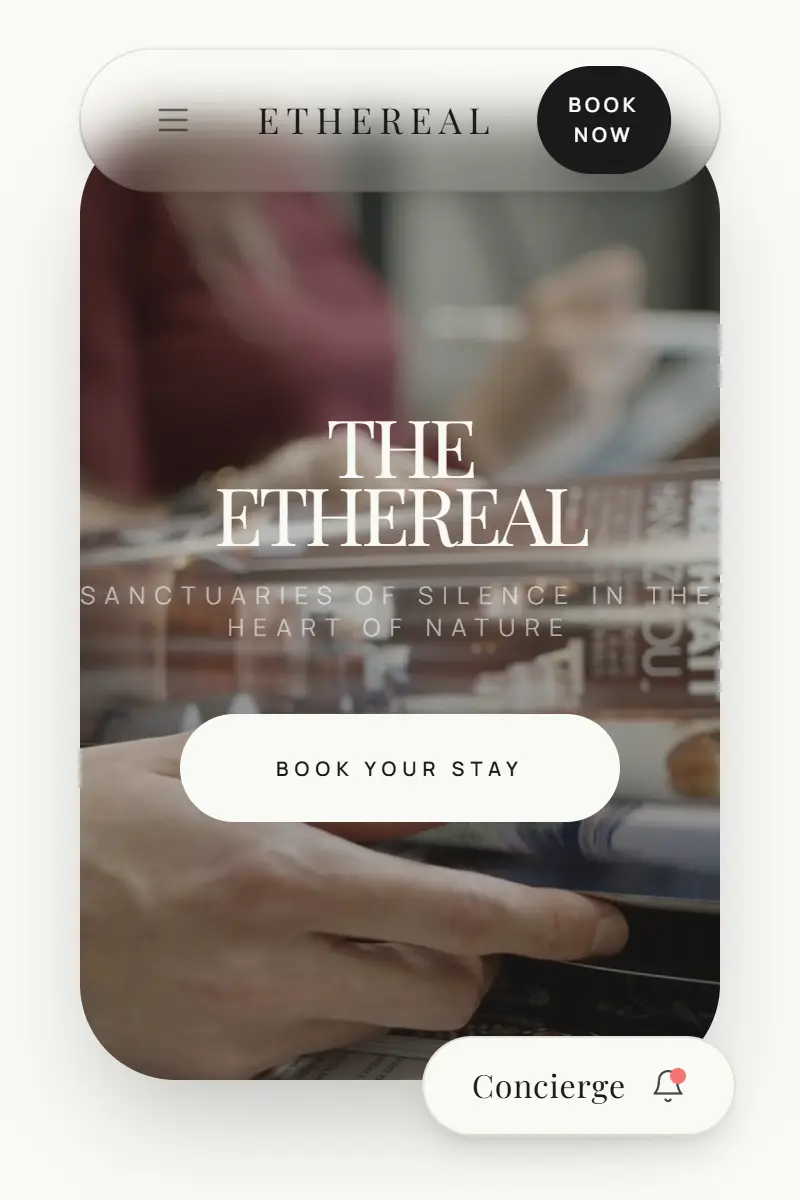
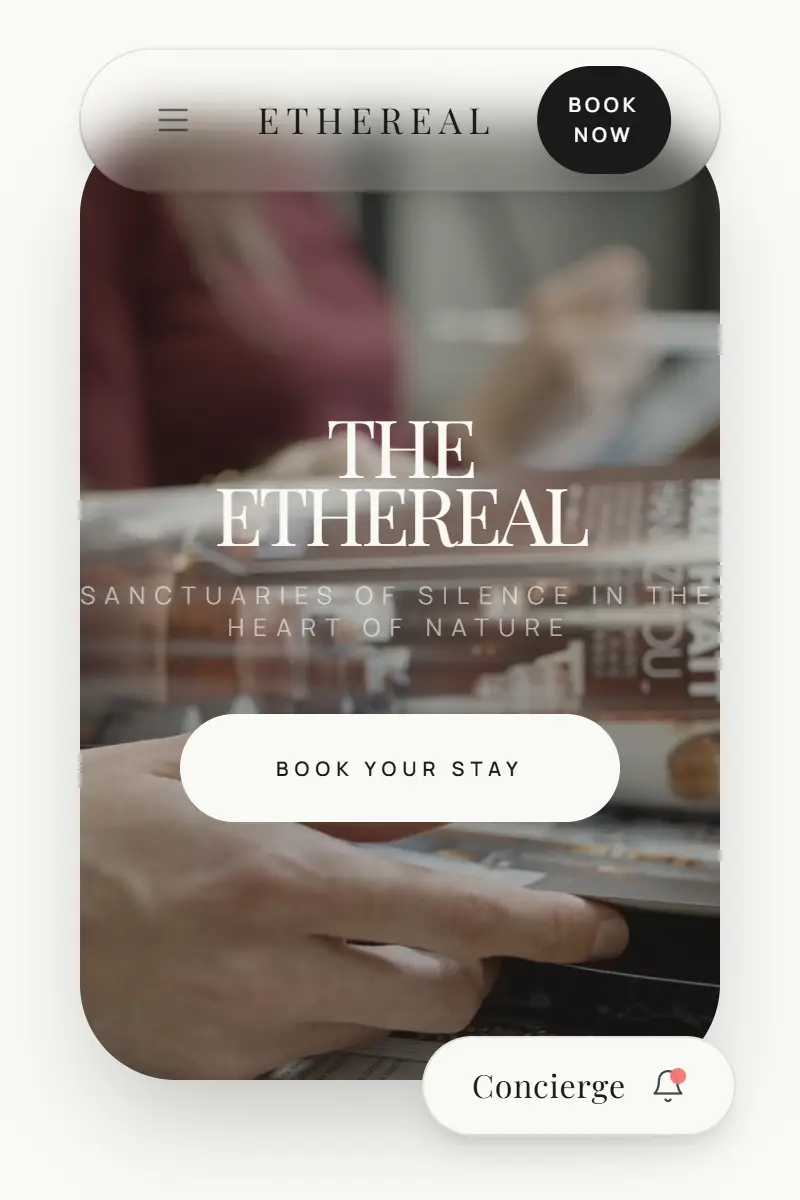
wip(demos2): fase 3 — las 8 demos, tambien en el sitio vivo
Niche Perfumes y AXON Studio (nombre y rubro leidos de cada pagina) en el
catalogo de v3 y en WebTemplatesImmersive con el mismo formato; portadas
reales de las ocho, vertical para el libro y horizontal para la ventana;
el estante se pisa mas para entrar en su columna sin achicar portadas.

Claude-Session: https://claude.ai/code/session_01WJnQfyiA9gf8temnKngsYh

diff --git a/logic-core-v3/src/app/v3/_secciones/trabajos/demos/catalogo.ts b/logic-core-v3/src/app/v3/_secciones/trabajos/demos/catalogo.ts
@@ -9,10 +9,10 @@
  * fuente del sitio vivo y afirma que los nombres y las URLs son los mismos, en el
  * mismo orden: la copia no puede envejecer sola.
  *
- * ⚠ **SON SEIS, NO OCHO.** El pedido dice «hoy son 8»; en el repo —`main`,
- * `redesign/home` y esta rama— hay seis. Las dos que faltan quedan PEDIDAS: entran
- * acá (y en el sitio vivo) con su URL y su portada, y la biblioteca las acomoda
- * sola, porque todo se deriva de la lista.
+ * **SON OCHO.** Eran seis en todas las ramas; las dos que faltaban llegaron en el
+ * sprint DEMOS 2, con permiso explícito de agregarlas también al sitio vivo. Su
+ * nombre y su rubro son los que dice cada página: el template de la URL «aura» se
+ * presenta como AXON Studio, y Niche como Niche Perfumes.
  *
  * El rubro es la primera mitad del `tagline` del sitio vivo, en castellano. La
  * portada es una captura real del template (`scripts-b4/demos-portadas.ts`),
@@ -24,20 +24,27 @@ export interface Demo {
   readonly nombre: string
   readonly rubro: string
   readonly url: string
-  /** Captura real del template, 400 × 600 CSS a doble densidad. */
+  /** Captura real del template, 400 × 600 CSS a doble densidad: la cara del libro. */
   readonly portada: string
+  /** Captura real al tamaño de la demo en la ventana (1.152 × 654): la textura del Genie. */
+  readonly ventana: string
 }
 
 /** Lo que mide cada portada, en píxeles de archivo. */
 export const MEDIDA_DE_LA_PORTADA = { ancho: 800, alto: 1200 } as const
 
+/** Lo que mide la captura de la ventana: el área de la demo a 1440 × 900, en CSS. */
+export const MEDIDA_DE_LA_VENTANA = { ancho: 1152, alto: 654 } as const
+
 export const CATALOGO_DE_DEMOS: readonly Demo[] = [
-  { slug: 'zero', nombre: 'Zero Protocol', rubro: 'Tecnología', url: 'https://template-zero.netlify.app/', portada: '/demos/zero.webp' },
-  { slug: 'ethereal', nombre: 'The Ethereal Resort', rubro: 'Hotelería', url: 'https://template-ethernal.netlify.app/', portada: '/demos/ethereal.webp' },
-  { slug: 'noir', nombre: 'Noir Dining in the Void', rubro: 'Gastronomía', url: 'https://template-noir.netlify.app/', portada: '/demos/noir.webp' },
-  { slug: 'skyline', nombre: 'Skyline Estates', rubro: 'Inmobiliaria', url: 'https://template-skyline.netlify.app/', portada: '/demos/skyline.webp' },
-  { slug: 'bold', nombre: 'NEXO Bold', rubro: 'Agencia creativa', url: 'https://template-bold.netlify.app/', portada: '/demos/bold.webp' },
-  { slug: 'nebula', nombre: 'YAKU Nebula', rubro: 'Software', url: 'https://template-nebula.netlify.app/', portada: '/demos/nebula.webp' },
+  { slug: 'zero', nombre: 'Zero Protocol', rubro: 'Tecnología', url: 'https://template-zero.netlify.app/', portada: '/demos/zero.webp', ventana: '/demos/zero-ventana.webp' },
+  { slug: 'ethereal', nombre: 'The Ethereal Resort', rubro: 'Hotelería', url: 'https://template-ethernal.netlify.app/', portada: '/demos/ethereal.webp', ventana: '/demos/ethereal-ventana.webp' },
+  { slug: 'noir', nombre: 'Noir Dining in the Void', rubro: 'Gastronomía', url: 'https://template-noir.netlify.app/', portada: '/demos/noir.webp', ventana: '/demos/noir-ventana.webp' },
+  { slug: 'skyline', nombre: 'Skyline Estates', rubro: 'Inmobiliaria', url: 'https://template-skyline.netlify.app/', portada: '/demos/skyline.webp', ventana: '/demos/skyline-ventana.webp' },
+  { slug: 'bold', nombre: 'NEXO Bold', rubro: 'Agencia creativa', url: 'https://template-bold.netlify.app/', portada: '/demos/bold.webp', ventana: '/demos/bold-ventana.webp' },
+  { slug: 'nebula', nombre: 'YAKU Nebula', rubro: 'Software', url: 'https://template-nebula.netlify.app/', portada: '/demos/nebula.webp', ventana: '/demos/nebula-ventana.webp' },
+  { slug: 'niche', nombre: 'Niche Perfumes', rubro: 'Perfumería', url: 'https://nicheperfumeria.netlify.app/', portada: '/demos/niche.webp', ventana: '/demos/niche-ventana.webp' },
+  { slug: 'aura', nombre: 'AXON Studio', rubro: 'Agencia de diseño web', url: 'https://template-aura-develop.netlify.app/', portada: '/demos/aura.webp', ventana: '/demos/aura-ventana.webp' },
 ]
 
 /**

diff --git a/logic-core-v3/scripts-b4/demos-portadas.ts b/logic-core-v3/scripts-b4/demos-portadas.ts
@@ -19,33 +19,48 @@ import { cerrarChrome, lanzarChrome } from './cdp'
 import { abrirPagina, cerrarPagina, irA } from './navegador'
 
 const DESTINO = 'public/demos'
-/** La cara de un libro: vertical, 2:3, a doble densidad. */
-const VISTA = { ancho: 400, alto: 600, densidad: 2 } as const
+/**
+ * Dos fotos por demo: la cara del libro (vertical, 2:3, a doble densidad) y la
+ * VENTANA —el área de la demo en la ventana abierta a 1440 × 900—, que es la
+ * textura del Genie y la imagen desde la que se funde el iframe vivo.
+ */
+const VISTAS = [
+  { sufijo: '', ancho: 400, alto: 600, densidad: 2 },
+  { sufijo: '-ventana', ancho: 1152, alto: 654, densidad: 1 },
+] as const
 /** Los templates tienen intros animados: se espera a que asienten. */
 const ESPERA_MS = 5000
+/**
+ * Uso: sin argumentos, las ocho. Con slugs (`... demos-portadas.ts aura`), sólo
+ * ésas y con el doble de espera: AXON tiene un intro de más de 5 s y la primera
+ * foto lo agarró a mitad de la transición.
+ */
+const SOLO = process.argv.slice(2)
 
 async function principal(): Promise<void> {
   mkdirSync(DESTINO, { recursive: true })
-  const chrome = await lanzarChrome({ perfil: 'C:/Users/Valentino/.cache/b4-medicion/demos-portadas', ancho: VISTA.ancho, alto: VISTA.alto + 120 })
+  const chrome = await lanzarChrome({ perfil: 'C:/Users/Valentino/.cache/b4-medicion/demos-portadas', ancho: 1152, alto: 654 + 120 })
   try {
-    for (const demo of CATALOGO_DE_DEMOS) {
-      const p = await abrirPagina(chrome)
-      await p.conexion.enviar(
-        'Emulation.setDeviceMetricsOverride',
-        { width: VISTA.ancho, height: VISTA.alto, deviceScaleFactor: VISTA.densidad, mobile: false },
-        p.sessionId,
-      )
-      await irA(p, demo.url, { marcaDeIntro: false, msMaximo: 30_000 })
-      await new Promise((r) => setTimeout(r, ESPERA_MS))
-      const foto = (await p.conexion.enviar(
-        'Page.captureScreenshot',
-        { format: 'webp', quality: 72, clip: { x: 0, y: 0, width: VISTA.ancho, height: VISTA.alto, scale: 1 } },
-        p.sessionId,
-      )) as { data: string }
-      const archivo = `${DESTINO}/${demo.slug}.webp`
-      writeFileSync(archivo, Buffer.from(foto.data, 'base64'))
-      console.log(`  ${demo.slug.padEnd(10)} ${archivo}`)
-      await cerrarPagina(p)
+    for (const demo of CATALOGO_DE_DEMOS.filter((d) => SOLO.length === 0 || SOLO.includes(d.slug))) {
+      for (const vista of VISTAS) {
+        const p = await abrirPagina(chrome)
+        await p.conexion.enviar(
+          'Emulation.setDeviceMetricsOverride',
+          { width: vista.ancho, height: vista.alto, deviceScaleFactor: vista.densidad, mobile: false },
+          p.sessionId,
+        )
+        await irA(p, demo.url, { marcaDeIntro: false, msMaximo: 30_000 })
+        await new Promise((r) => setTimeout(r, SOLO.length === 0 ? ESPERA_MS : ESPERA_MS * 3))
+        const foto = (await p.conexion.enviar(
+          'Page.captureScreenshot',
+          { format: 'webp', quality: 72, clip: { x: 0, y: 0, width: vista.ancho, height: vista.alto, scale: 1 } },
+          p.sessionId,
+        )) as { data: string }
+        const archivo = `${DESTINO}/${demo.slug}${vista.sufijo}.webp`
+        writeFileSync(archivo, Buffer.from(foto.data, 'base64'))
+        console.log(`  ${demo.slug.padEnd(10)} ${archivo}`)
+        await cerrarPagina(p)
+      }
     }
   } finally {
     await cerrarChrome(chrome)

diff --git a/logic-core-v3/src/app/v3/_estilos/demos.css b/logic-core-v3/src/app/v3/_estilos/demos.css
@@ -33,8 +33,7 @@
   padding-block-start: calc(var(--libro-alza) + var(--spacing-12));
   transition:
     transform var(--duracion-lenta) var(--demos-resorte),
-    opacity var(--duracion-lenta) var(--demos-resorte),
-    filter var(--duracion-lenta) var(--demos-resorte);
+    opacity var(--duracion-lenta) var(--demos-resorte);
 }
 
 /* La biblioteca RETROCEDE cuando una demo está abierta: se achica, baja un poco y
@@ -42,7 +41,6 @@
 [data-v3] [data-pieza="estante"][data-alejada] {
   transform: translateY(var(--spacing-8)) scale(0.9);
   opacity: 0.35;
-  filter: blur(var(--border-hairline));
 }
 
 /* EL HUECO de cada pieza: plano y quieto, así el hover no cambia bajo el puntero
@@ -56,8 +54,15 @@
   border-radius: var(--radius-sutil);
 }
 
+/* Cada una tapa parte de la anterior, y si no entran en su columna se pisan MÁS:
+ * las portadas no se achican nunca. El `100 %` de un margen es el ancho del
+ * estante, así que el segundo término es el solape que lo llena exacto con
+ * `--libros` piezas (lo pone `Biblioteca`), y `min()` elige el mayor de los dos. */
 [data-v3] [data-pieza="libro"] + [data-pieza="libro"] {
-  margin-inline-start: calc(var(--libro-ancho) * -0.42);
+  margin-inline-start: min(
+    calc(var(--libro-ancho) * -0.42),
+    calc((100% - var(--libro-ancho)) / (var(--libros) - 1) - var(--libro-ancho))
+  );
 }
 
 /* LA CARA: la portada, girada como un libro en el estante. */

diff --git a/logic-core-v3/src/app/v3/_lib/__tests__/s10-acceso.invariant.ts b/logic-core-v3/src/app/v3/_lib/__tests__/s10-acceso.invariant.ts
@@ -143,9 +143,9 @@ imprimirParadas(QUIETA, PARADAS)
  * paradas seguidas al mismo destino se anuncian tres veces igual. Quedan las dos
  * que hacen falta, y la de la imagen declara su `aria-label`.
  */
-// SPRINT DEMOS · + las seis demos del tramo de Trabajos (el estante arriba de 1025, la cinta abajo).
-afirmarIgual(PARADAS.length, 32, 'el home entero tiene 32 paradas: las 22 de antes, la captura de cada trabajo, el CTA del final del túnel y las seis demos')
-afirmarIgual(paradasDeTabulacion(ANIMADA).length, 32, '  y la rama animada tiene las mismas 32: el recorrido de teclado no cambia con el ancho')
+// SPRINT DEMOS · + las ocho demos del tramo de Trabajos (el estante arriba de 1025, la cinta abajo).
+afirmarIgual(PARADAS.length, 34, 'el home entero tiene 34 paradas: las 22 de antes, la captura de cada trabajo, el CTA del final del túnel y las ocho demos')
+afirmarIgual(paradasDeTabulacion(ANIMADA).length, 34, '  y la rama animada tiene las mismas 34: el recorrido de teclado no cambia con el ancho')
 afirmarIgual(tabindexPositivos(QUIETA), [], 'ningún `tabindex` positivo rompe el orden del documento')
 afirmarIgual(
   PARADAS.filter((p) => rotuloDeParada(QUIETA, p).rotulo === '').map((p) => p.etiqueta),

diff --git a/logic-core-v3/src/components/sections/web-development/WebTemplatesImmersive.tsx b/logic-core-v3/src/components/sections/web-development/WebTemplatesImmersive.tsx
@@ -80,6 +80,24 @@ const TEMPLATES: TemplateItem[] = [
         rgb: "0,229,255",
         url: "https://template-nebula.netlify.app/",
     },
+    {
+        slug: "niche",
+        name: "Niche Perfumes",
+        tagline: "Perfumery / High-end",
+        description: "Colección curada de perfumería árabe de alta gama, con importación directa y garantía de originalidad.",
+        accent: "#d4af37",
+        rgb: "212,175,55",
+        url: "https://nicheperfumeria.netlify.app/",
+    },
+    {
+        slug: "aura",
+        name: "AXON Studio",
+        tagline: "Agency / Web design studio",
+        description: "Agencia de diseño web que crea sitios, e-commerce y branding para negocios.",
+        accent: "#00ff88",
+        rgb: "0,255,136",
+        url: "https://template-aura-develop.netlify.app/",
+    },
 ]
 
 const clampIndex = (value: number) => Math.min(TEMPLATES.length - 1, Math.max(0, value))

diff --git a/logic-core-v3/src/app/v3/_secciones/trabajos/demos/Biblioteca.tsx b/logic-core-v3/src/app/v3/_secciones/trabajos/demos/Biblioteca.tsx
@@ -95,7 +95,8 @@ export function Biblioteca({
 
   return (
     <>
-      <div data-pieza="estante" {...(alejada ? { 'data-alejada': '' } : {})}>
+      {/* `--libros`: el estante calcula con él cuánto se pisan para entrar en su columna. */}
+      <div data-pieza="estante" style={{ '--libros': CATALOGO_DE_DEMOS.length } as React.CSSProperties} {...(alejada ? { 'data-alejada': '' } : {})}>
         {CATALOGO_DE_DEMOS.map((demo, i) => (
           <a
             key={demo.slug}
